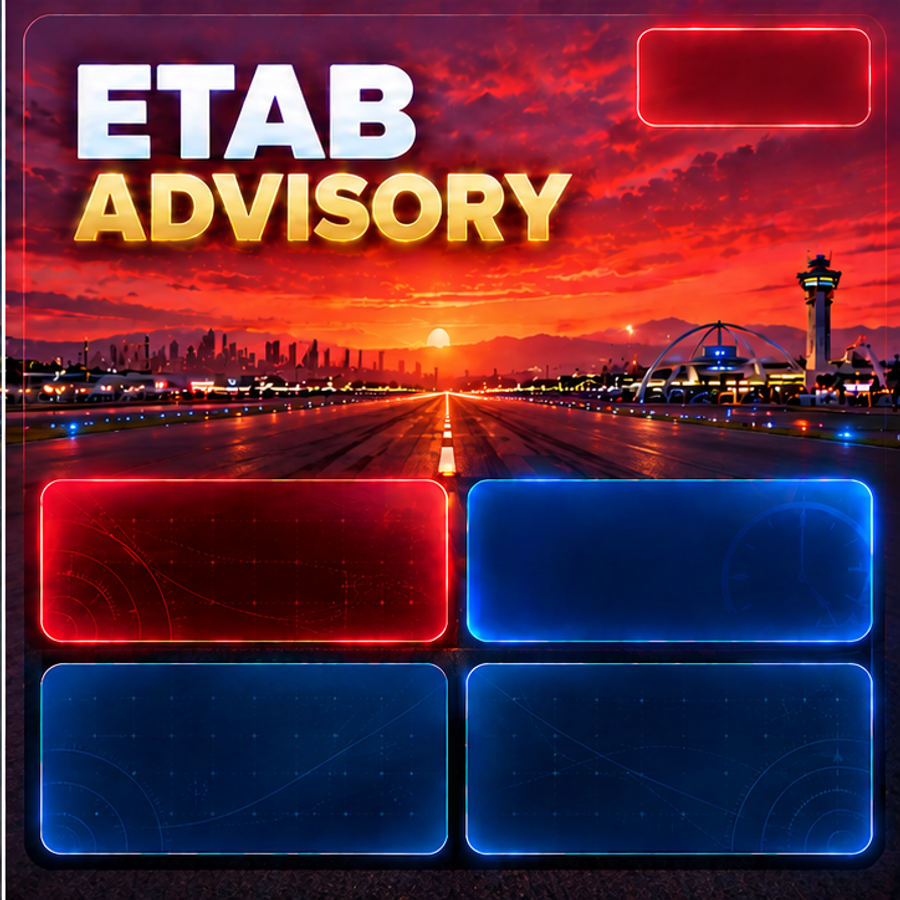
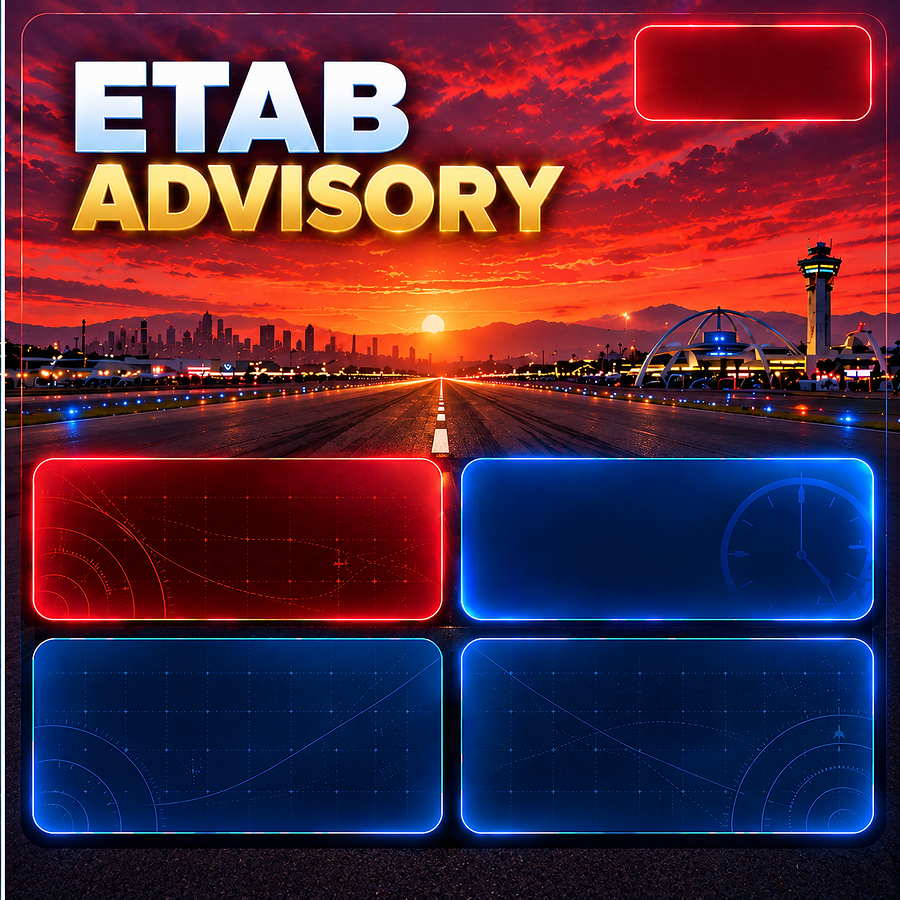
Match nighttime and MSC cards to daytime high-resolution quality

diff --git a/etabImage.js b/etabImage.js
@@ -1,7 +1,7 @@
 const sharp = require('sharp');
 const path = require('node:path');
 const { theme } = require('./etabAdvisory');
-const IMAGE_BOUNDS={left:22,top:22,width:854,height:842};
+const IMAGE_BOUNDS={left:26,top:24,width:850,height:840};
 let aircraftIcons;
 function loadAircraftIcons(){
   if(!aircraftIcons)aircraftIcons=Promise.all(['arrival','departure'].map(async(type)=>{
@@ -17,11 +17,13 @@ const escape = value => String(value || '—').replace(/[<>&"']/g,c=>({'<':'&lt;
 async function renderAdvisory(data) {
   const mode=theme(data.arrival.gate), accent={day:'#a5ffd0',night:'#ffe591',msc:'#ffccd0'}[mode];
   const a=data.arrival,d=data.departure;
+  const verticalOffset=mode==='day'?0:-18;
   const text=(x,y,size,value,fill='#f5faff',weight=700,anchor='start')=>`<text x="${x}" y="${y}" text-anchor="${anchor}" font-family="Arial, Helvetica, sans-serif" font-size="${size}" font-weight="${weight}" fill="${fill}">${escape(value)}</text>`;
   const date=new Date(data.date+'T12:00:00Z').toLocaleDateString('en-GB',{day:'2-digit',month:'short',timeZone:'UTC'}).toUpperCase();
   const fields=[['REG',a.reg],['PAX',a.pax],['CREW',a.crew]];
   const overlay=`<svg width="900" height="900" xmlns="http://www.w3.org/2000/svg"><defs><filter id="iconGlow" x="-50%" y="-50%" width="200%" height="200%"><feGaussianBlur stdDeviation="3"/></filter><clipPath id="dateTextureClip"><rect x="628" y="31" width="231" height="91" rx="20"/></clipPath><pattern id="dateMicrogrid" width="22" height="22" patternUnits="userSpaceOnUse"><path d="M22 0H0V22" fill="none" stroke="#91cdff" stroke-opacity=".1" stroke-width=".65"/><path d="M10 11h2m-1-1v2" stroke="#c2e5ff" stroke-opacity=".14" stroke-width=".65"/></pattern></defs>
     <g clip-path="url(#dateTextureClip)"><rect x="628" y="31" width="231" height="91" fill="url(#dateMicrogrid)"/><g fill="none" stroke="#92caff" stroke-opacity=".13" stroke-width=".75"><circle cx="847" cy="118" r="48"/><circle cx="847" cy="118" r="63"/><path d="M630 111Q710 93 753 52T860 45"/></g></g>
+    <g transform="translate(0 ${verticalOffset})">
     <g id="plane" transform="translate(105 550)" fill="none" stroke="${accent}" stroke-width="2.6"><circle r="31"/><g transform="rotate(28)"><path d="M0-24C-3-24-3.7-20-3.7-16V-6L-22 7V12L-3.7 6V18L-11 23V27L0 23L11 27V23L3.7 18V6L22 12V7L3.7-6V-16C3.7-20 3-24 0-24Z" fill="${accent}" stroke="none"/></g></g><use href="#plane" filter="url(#iconGlow)" opacity=".45"/>
     <path d="M178 505v111" stroke="${accent}" stroke-opacity=".55"/>
     ${text(307,529,29,'GATE','#fff7dc',700,'middle')}
@@ -33,10 +35,11 @@ async function renderAdvisory(data) {
     ${fields.map(([label,value],i)=>text(61+i*128,781,21,label,'#c4d5ee',400)+text(61+i*128,823,29,value)).join('')}
     <path d="M179 765v66 M307 765v66" stroke="#428fd3" stroke-opacity=".35"/>
     ${mode==='msc'?text(663,755,16,'MSC GATE OPERATION','#ffc2c9',700,'middle'):''}
+    </g>
   </svg>`;
   const layers=[{input:Buffer.from(overlay)}];
   const [arrivalIcon,departureIcon]=await loadAircraftIcons();
-  layers.push({input:arrivalIcon,left:54,top:674},{input:departureIcon,left:480,top:674});
+  layers.push({input:arrivalIcon,left:54,top:674+verticalOffset},{input:departureIcon,left:480,top:674+verticalOffset});
   async function digits(value,center,top,size,maxWidth,colors,glow,label='') {
     let mask=await sharp({text:{text:escape(value),font:'Archivo Black, '+size,fontfile:path.join(__dirname,'assets/etab/fonts/ArchivoBlack-Regular.ttf'),rgba:true,dpi:72}}).png().toBuffer();
     let meta=await sharp(mask).metadata();
@@ -63,11 +66,11 @@ async function renderAdvisory(data) {
     layers.push({input:halo,left:left-16,top:top-16},{input:depth,left:left+1,top:top+2},{input:glyph,left,top});
   }
   const gateColors=mode==='day'?['#ffffff','#edfff2','#85dfaa']:mode==='night'?['#fffde5','#fff0b1','#e6bd5b']:['#ffffff','#fff6f6','#e7a5af'];
-  await digits(a.gate,307,550,90,228,gateColors,accent);
+  await digits(a.gate,307,550+verticalOffset,90,228,gateColors,accent);
   const timeColors=['#ffffff','#edf6ff','#99bfe4'];
   await digits(date,747,61,42,215,timeColors,'#81bfff');
-  await digits(a.eta,724,555,70,267,timeColors,'#81bfff');
-  await digits(d.time || 'TBA',663,779,70,267,timeColors,'#81bfff',(d.timeType || 'ETD')+':');
+  await digits(a.eta,724,555+verticalOffset,70,267,timeColors,'#81bfff');
+  await digits(d.time || 'TBA',663,779+verticalOffset,70,267,timeColors,'#81bfff',(d.timeType || 'ETD')+':');
   const composed=await sharp(path.join(__dirname,'assets/etab',mode+'-template.png')).composite(layers).png().toBuffer();
   const trimmed=await sharp(composed).extract(IMAGE_BOUNDS).png().toBuffer();
   const cornerMask=Buffer.from(`<svg xmlns="http://www.w3.org/2000/svg" width="${IMAGE_BOUNDS.width}" height="${IMAGE_BOUNDS.height}"><rect width="100%" height="100%" rx="24" fill="#fff"/></svg>`);

diff --git a/docs/ETAB-ADVISORY.md b/docs/ETAB-ADVISORY.md
@@ -26,6 +26,6 @@ Optional environment variables: `ETAB_DISCORD_CHANNEL_ID` (default `125202697572
 
 ## Preview and verification
 
-`node scripts/preview-etab.cjs` writes three PNGs and a comparison to `.verification/etab/`. Render on a 900×900 canvas, then trim the exterior and outer luminous frame to 854×842 with clean rounded corners. Internal information-card lighting remains. Production rendering uses `assets/etab/{day,night,msc}-template.png` and the bundled OFL-licensed Archivo Black font. The source triptych is an imagegen edit of the supplied original artwork, preserving its heading, runway and soft neon glass. The daytime template has a dedicated high-resolution master. Gate, date and lower cards include subtle aviation textures; ETA keeps its clock dial. The lower cards show right-aligned flight numbers without Arrival/Departure labels, alongside separate arrival/departure aircraft cutouts derived from the supplied China Eastern material. The arrival aircraft has deployed gear and a shallow descending attitude; departure climbs with gear retracted. Operational text and circle-plane gate icons are composited deterministically. STD/ETD labels have a 22-pixel gap before the time, and the complete group is centered.
+`node scripts/preview-etab.cjs` writes three PNGs and a comparison to `.verification/etab/`. Render on a 900×900 canvas, then trim the exterior and outer luminous frame to 850×840 with clean rounded corners. Internal information-card lighting remains. Production rendering uses `assets/etab/{day,night,msc}-template.png` and the bundled OFL-licensed Archivo Black font. The source triptych is an imagegen edit of the supplied original artwork, preserving its heading, runway and soft neon glass. All three templates have dedicated high-resolution masters, rendered through the same downsampling and sharpening pipeline. Gate, date and lower cards include subtle aviation textures; ETA keeps its clock dial. The lower cards show right-aligned flight numbers without Arrival/Departure labels, alongside separate arrival/departure aircraft cutouts derived from the supplied China Eastern material. The arrival aircraft has deployed gear and a shallow descending attitude; departure climbs with gear retracted. Operational text and circle-plane gate icons are composited deterministically. STD/ETD labels have a 22-pixel gap before the time, and the complete group is centered.
 
 `node --test test/etabAdvisory.test.js test/pbbEtab.test.js` checks original clock-in equivalence across all 1,440 minutes, the supplied mail formats, gate selection, date rollover, schedule lookup, mentions, deduplication and interrupted sends. Local previews do not access Gmail, Sheets or Discord. Live access, channel appearance and runtime load still require verification in the configured server environment.
